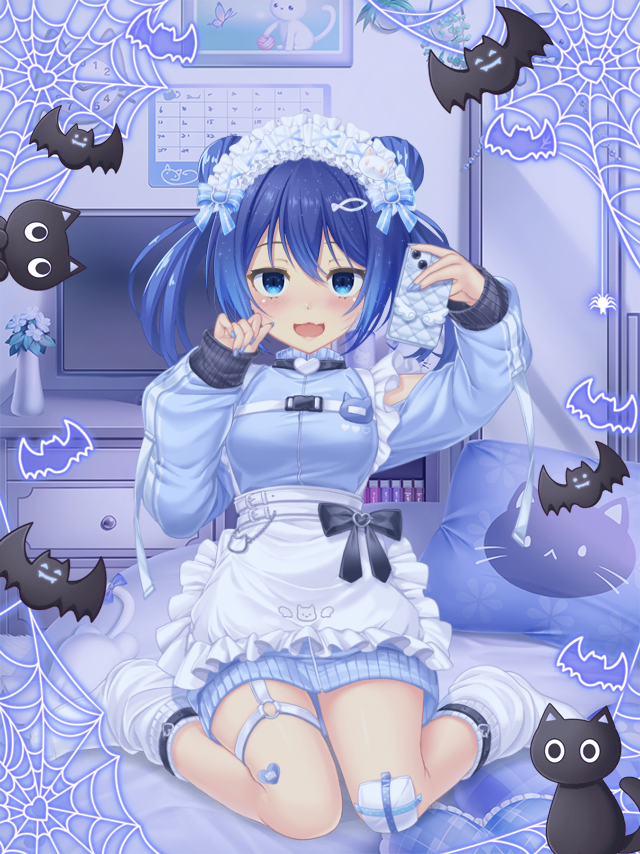
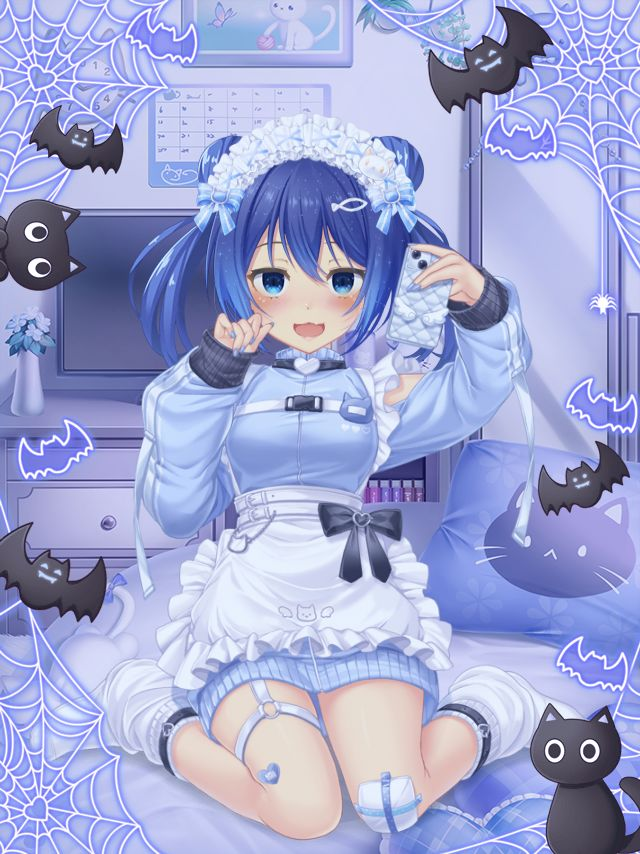
いろいろ

diff --git a/assets/slides/4-2.html b/assets/slides/4-2.html
@@ -14,7 +14,7 @@
 			</div>
 			<div class="profile-main">
 				<p>いつかの誰かの夢の中では魔法戦士として世界を救った<br>寡黙で勇敢なミドリの婚約者。</p>
-				<p>結婚にはとても前向きだが、口にすることはあまりない。<br>煮えきらないミドリの態度をじれったく思いながらも<br>プロポーズしてくれることを一途に待っている。</p>
+				<p>結婚にはとても前向きだが、口にすることはあまりない。<br>煮えきらないミドリの態度をじれったく思いながらも<br>プロポーズを一途に待っている。</p>
 				<p>料理とそれにまつわる家事が壊滅的に下手で<br>調理をすればホイップクリームと白味噌を間違えてしまい<br>洗いものをすればすべての食器を割ってしまうため<br>ミドリからはキッチンに立つことを禁止されている。</p>
 				<p>身体を鍛えることが好きで<br>ランニングと筋力トレーニングを日課としている。<br>ミドリとランニングに出かけることもよくあるが<br>いつもミドリを置き去りにしてしまう。</p>
 			</div>

diff --git a/script.js b/script.js
@@ -159,6 +159,20 @@ function showProfile(team,index){
           thumbSrc: "assets/images/thumbnail_4-1.png",
         },
         {
+          src:"assets/slides/4-2.html",
+          thumbSrc: "assets/images/thumbnail_4-2.png",
+        },
+        {
+          src:"assets/slides/4-3.html",
+          thumbSrc: "assets/images/thumbnail_4-3.png",
+        },
+        {
+          src:"assets/slides/4-4.html",
+          thumbSrc: "assets/images/thumbnail_4-4.png",
+        },
+        {
+          src:"assets/slides/4-5.html",
+          thumbSrc: "assets/images/thumbnail_4-5.png",
         },
       ],option
     );
